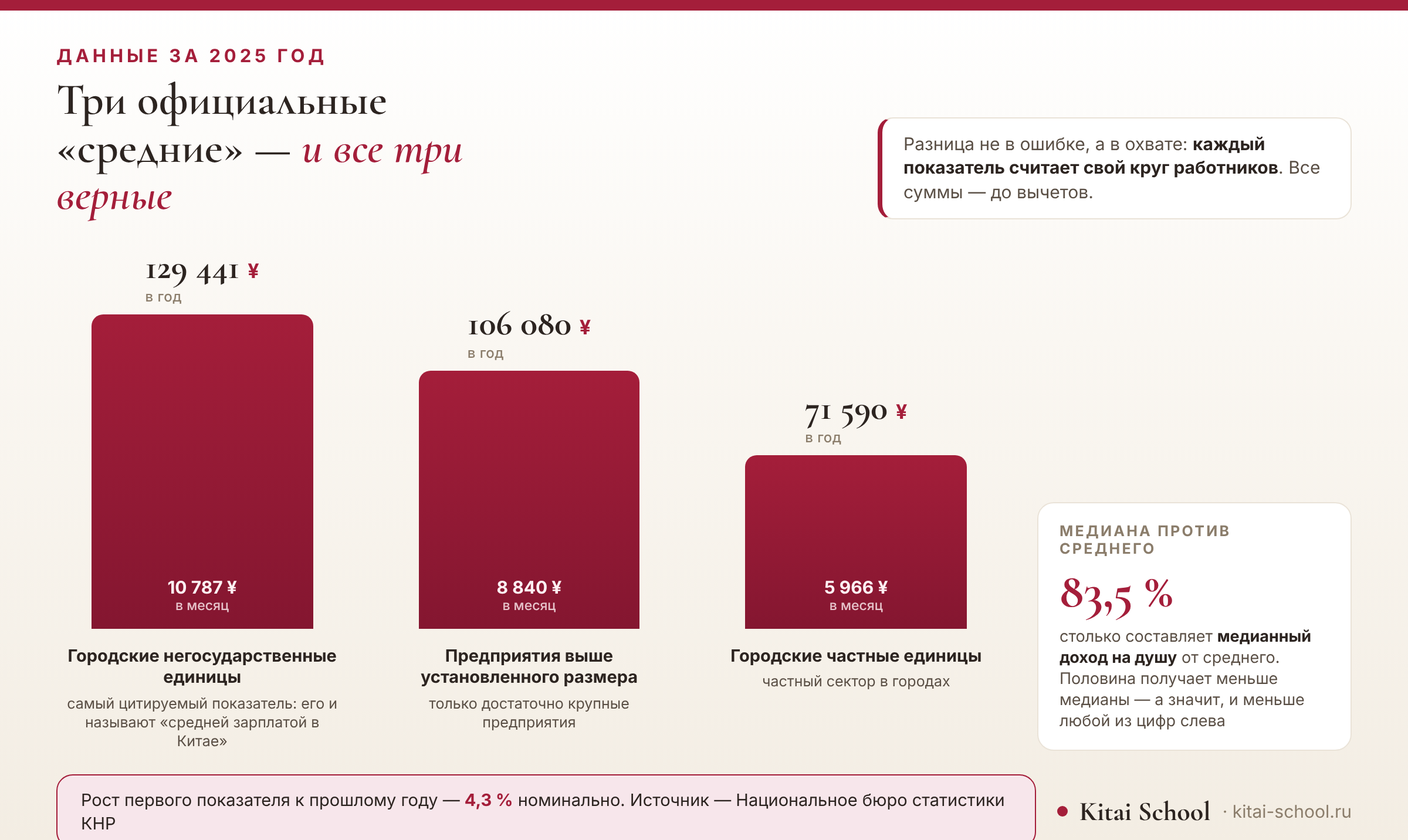
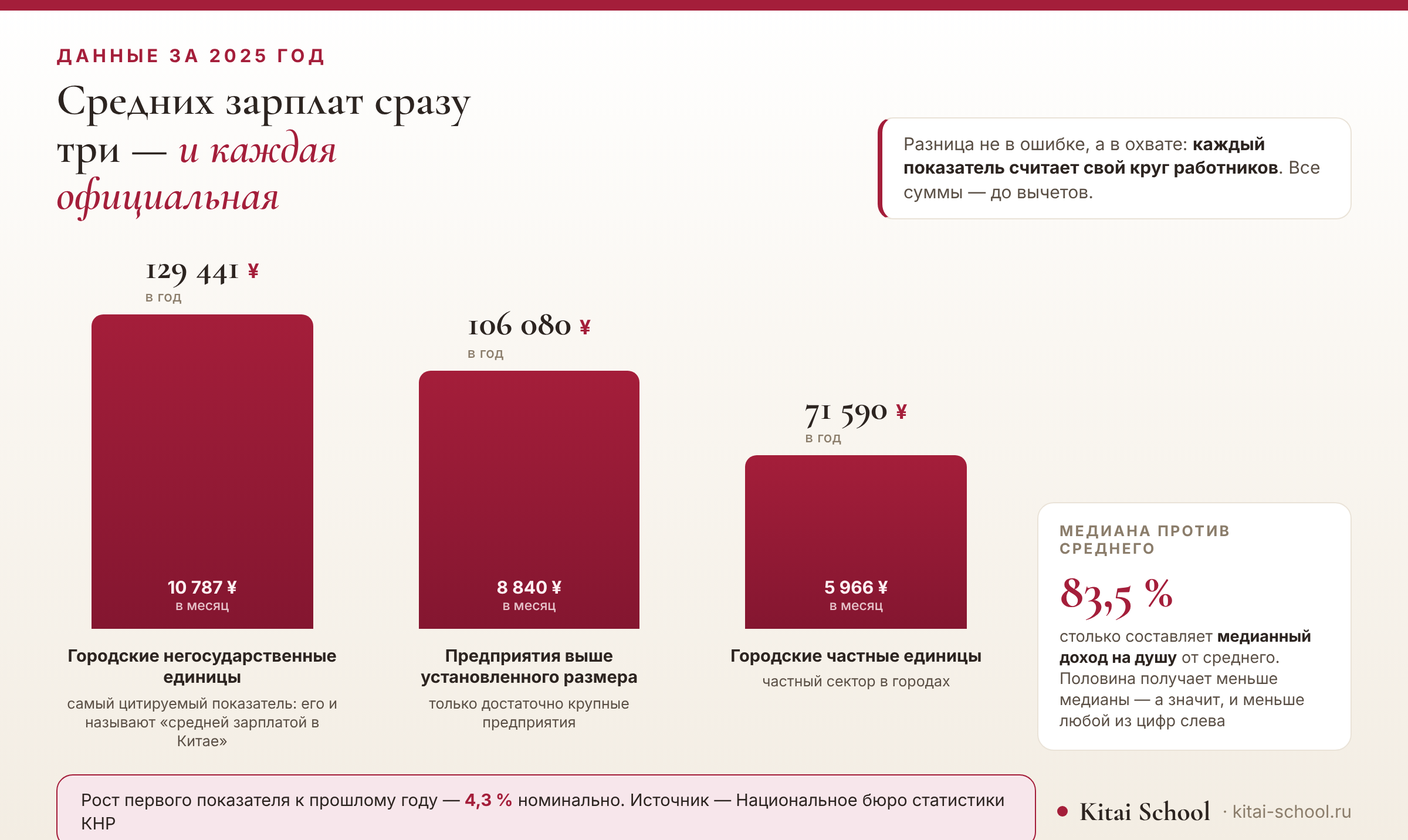
Правка формулировок: «Средняя зарплата в Китае»
Заголовок инфографики «Три официальные „средние" — и все три верные»
читался не по-русски; стало «Средних зарплат сразу три — и каждая
официальная». Та же субстантивация убрана из h2, подписи к картинке,
вводного абзаца, сайдбара и og:description.

Дескрипшен переписан так, чтобы открываться ключевой фразой.

Claude-Session: https://claude.ai/code/session_017dS7Wuw6MNB5fnZSr6hVh2

Changed region(s): [[0.0312, 0.0922, 0.3438, 0.2765]]

diff --git a/content/blog/srednyaya-zarplata-v-kitae.html b/content/blog/srednyaya-zarplata-v-kitae.html
@@ -4,11 +4,11 @@
 <meta charset="utf-8">
 <meta name="viewport" content="width=device-width, initial-scale=1">
 <title>Средняя зарплата в Китае: сколько реально платят и насколько это зависит от города</title>
-<meta name="description" content="Доходы в Китае сильно разнятся: Пекин и Шанхай — это одни цифры, провинция — совсем другие. Разбираем, почему на вопрос «какая в Китае средняя зарплата» есть сразу несколько верных ответов, и попутно даём лексику о работе и деньгах. Информационный обзор по опубликованным данным, без обещаний и прогнозов.">
+<meta name="description" content="Средняя зарплата в Китае — это сразу три официальные цифры, и отличаются они почти вдвое, потому что считают разный круг работников. Разбираем, какая из них о чём, почему Пекин и Шанхай стоят особняком и сколько получает большинство, и попутно даём лексику о работе и деньгах. Информационный обзор по опубликованным данным, без обещаний и прогнозов.">
 <link rel="canonical" href="https://kitai-school.ru/article/srednyaya-zarplata-v-kitae">
 <meta property="og:type" content="article">
 <meta property="og:title" content="Средняя зарплата в Китае: сколько реально платят и насколько это зависит от города">
-<meta property="og:description" content="Три официальные «средние» по стране отличаются почти вдвое — и это не ошибка, а разный охват.">
+<meta property="og:description" content="Три официальные средние зарплаты по стране отличаются почти вдвое — и это не ошибка, а разный охват.">
 <meta property="og:url" content="https://kitai-school.ru/article/srednyaya-zarplata-v-kitae">
 <meta property="og:image" content="assets/zp-hero.png">
 <meta property="og:image:alt" content="Расчётный лист со строками 税前, 底薪, 奖金, 社保, 公积金, 个税 и итогом 税后">
@@ -16,7 +16,7 @@
 <meta property="og:locale" content="ru_RU">
 <meta name="twitter:card" content="summary_large_image">
 <meta name="twitter:title" content="Средняя зарплата в Китае: сколько реально платят и насколько это зависит от города">
-<meta name="twitter:description" content="Три официальные «средние» по стране отличаются почти вдвое — и это не ошибка, а разный охват.">
+<meta name="twitter:description" content="Три официальные средние зарплаты по стране отличаются почти вдвое — и это не ошибка, а разный охват.">
 <meta name="twitter:image" content="assets/zp-hero.png">
 <meta name="robots" content="index, follow, max-image-preview:large, max-snippet:-1">
 
@@ -223,14 +223,14 @@
 
 <figure class="ks-hero"><img src="assets/zp-hero.png" alt="Расчётный лист со строками 税前, 底薪, 奖金, 社保, 公积金, 个税 и итогом 税后" width="1200" height="630"></figure>
 
-<p class="passport">Если вы уже искали ответ, то видели пять разных цифр и ни одного объяснения, почему они не сходятся. Объяснение простое, и с него стоит начать: официальных «средних» в Китае не одна, а несколько, и считают они разные круги работников. Дальше разберём каждую, посмотрим, насколько средняя расходится с тем, что получает большинство, и закончим словами, без которых разговор о зарплате по-китайски не складывается.</p>
+<p class="passport">Если вы уже искали ответ, то видели пять разных цифр и ни одного объяснения, почему они не сходятся. Объяснение простое, и с него стоит начать: официальная средняя зарплата в Китае не одна: показателей несколько, и считают они разные круги работников. Дальше разберём каждую, посмотрим, насколько средняя расходится с тем, что получает большинство, и закончим словами, без которых разговор о зарплате по-китайски не складывается.</p>
 
 <div class="tldr">
   <b>Коротко</b>
   <p><b>За 2025 год: 129 441 юань в год</b> в городских негосударственных единицах, <b>106 080</b> на крупных предприятиях, <b>71 590</b> в городском частном секторе. Все суммы — <b>до вычетов</b>. Медианный доход на душу составляет <b>83,5 % от среднего</b>: половина получает меньше. В Пекине и Шанхае порядок примерно вдвое выше общенационального.</p>
 </div>
 
-<h2>Короткий ответ: <span class="italic">сразу три «средние»</span></h2>
+<h2>Короткий ответ: <span class="italic">сразу три средние зарплаты</span></h2>
 
 <p>Начну с цифр, а объяснение — сразу под таблицей.</p>
 
@@ -276,7 +276,7 @@
 
 <p>Это главное, что стоит понять про любую среднюю зарплату — хоть китайскую, хоть какую.</p>
 
-<figure class="ks-fig"><img src="assets/zp-info.png" alt="Три столбца трёх официальных средних зарплат в Китае за 2025 год: 129 441, 106 080 и 71 590 юаней в год" width="1200" height="716"><figcaption>Три официальные «средние» за 2025 год и то, как к ним относится медиана.</figcaption></figure>
+<figure class="ks-fig"><img src="assets/zp-info.png" alt="Три столбца трёх официальных средних зарплат в Китае за 2025 год: 129 441, 106 080 и 71 590 юаней в год" width="1200" height="716"><figcaption>Три официальные средние зарплаты за 2025 год и то, как к ним относится медиана.</figcaption></figure>
 
 <p><b>Медианный располагаемый доход на душу населения составляет 83,5 % от среднего.</b> Медиана — это середина: половина получает больше, половина меньше. И она заметно ниже средней.</p>
 
@@ -438,7 +438,7 @@
     <a class="side-link" href="https://kitai-school.ru/kitayskiy-dlya-detey" target="_blank" rel="noopener"><svg viewBox="0 0 24 24" fill="none" stroke="currentColor" stroke-width="1.8" stroke-linecap="round" stroke-linejoin="round"><circle cx="12" cy="12" r="9"/><path d="M9 10h.01M15 10h.01M8.5 15a4 4 0 0 0 7 0"/></svg>Китайский детям</a>
     <a class="side-link" href="https://kitai-school.ru/ks-indiv" target="_blank" rel="noopener"><svg viewBox="0 0 24 24" fill="none" stroke="currentColor" stroke-width="1.8" stroke-linecap="round" stroke-linejoin="round"><circle cx="12" cy="8" r="4"/><path d="M4 21c0-4 3.5-6 8-6s8 2 8 6"/></svg>Индивидуально</a>
     <a class="side-link" href="https://kitai-school.ru/ks-university" target="_blank" rel="noopener"><svg viewBox="0 0 24 24" fill="none" stroke="currentColor" stroke-width="1.8" stroke-linecap="round" stroke-linejoin="round"><path d="M22 10L12 5 2 10l10 5 10-5z"/><path d="M6 12v5c0 1 2.7 2.5 6 2.5s6-1.5 6-2.5v-5"/></svg>Учёба в Китае</a>
-    <p class="side-note">Официальных «средних» в Китае сразу три, и отличаются они почти вдвое — потому что считают разный круг работников</p>
+    <p class="side-note">Официальных средних зарплат в Китае сразу три, и отличаются они почти вдвое — потому что считают разный круг работников</p>
     <a class="side-btn" href="#popup:zayavka">Пробный урок →</a>
   </div>
 </aside>

diff --git a/content/blog/srednyaya-zarplata-v-kitae.TILDA.html b/content/blog/srednyaya-zarplata-v-kitae.TILDA.html
@@ -197,14 +197,14 @@
 
 <figure class="ks-hero"><img src="assets/zp-hero.png" alt="Расчётный лист со строками 税前, 底薪, 奖金, 社保, 公积金, 个税 и итогом 税后" width="1200" height="630"></figure>
 
-<p class="passport">Если вы уже искали ответ, то видели пять разных цифр и ни одного объяснения, почему они не сходятся. Объяснение простое, и с него стоит начать: официальных «средних» в Китае не одна, а несколько, и считают они разные круги работников. Дальше разберём каждую, посмотрим, насколько средняя расходится с тем, что получает большинство, и закончим словами, без которых разговор о зарплате по-китайски не складывается.</p>
+<p class="passport">Если вы уже искали ответ, то видели пять разных цифр и ни одного объяснения, почему они не сходятся. Объяснение простое, и с него стоит начать: официальная средняя зарплата в Китае не одна: показателей несколько, и считают они разные круги работников. Дальше разберём каждую, посмотрим, насколько средняя расходится с тем, что получает большинство, и закончим словами, без которых разговор о зарплате по-китайски не складывается.</p>
 
 <div class="tldr">
   <b>Коротко</b>
   <p><b>За 2025 год: 129 441 юань в год</b> в городских негосударственных единицах, <b>106 080</b> на крупных предприятиях, <b>71 590</b> в городском частном секторе. Все суммы — <b>до вычетов</b>. Медианный доход на душу составляет <b>83,5 % от среднего</b>: половина получает меньше. В Пекине и Шанхае порядок примерно вдвое выше общенационального.</p>
 </div>
 
-<h2>Короткий ответ: <span class="italic">сразу три «средние»</span></h2>
+<h2>Короткий ответ: <span class="italic">сразу три средние зарплаты</span></h2>
 
 <p>Начну с цифр, а объяснение — сразу под таблицей.</p>
 
@@ -250,7 +250,7 @@
 
 <p>Это главное, что стоит понять про любую среднюю зарплату — хоть китайскую, хоть какую.</p>
 
-<figure class="ks-fig"><img src="assets/zp-info.png" alt="Три столбца трёх официальных средних зарплат в Китае за 2025 год: 129 441, 106 080 и 71 590 юаней в год" width="1200" height="716"><figcaption>Три официальные «средние» за 2025 год и то, как к ним относится медиана.</figcaption></figure>
+<figure class="ks-fig"><img src="assets/zp-info.png" alt="Три столбца трёх официальных средних зарплат в Китае за 2025 год: 129 441, 106 080 и 71 590 юаней в год" width="1200" height="716"><figcaption>Три официальные средние зарплаты за 2025 год и то, как к ним относится медиана.</figcaption></figure>
 
 <p><b>Медианный располагаемый доход на душу населения составляет 83,5 % от среднего.</b> Медиана — это середина: половина получает больше, половина меньше. И она заметно ниже средней.</p>
 
@@ -412,7 +412,7 @@
     <a class="side-link" href="https://kitai-school.ru/kitayskiy-dlya-detey" target="_blank" rel="noopener"><svg viewBox="0 0 24 24" fill="none" stroke="currentColor" stroke-width="1.8" stroke-linecap="round" stroke-linejoin="round"><circle cx="12" cy="12" r="9"/><path d="M9 10h.01M15 10h.01M8.5 15a4 4 0 0 0 7 0"/></svg>Китайский детям</a>
     <a class="side-link" href="https://kitai-school.ru/ks-indiv" target="_blank" rel="noopener"><svg viewBox="0 0 24 24" fill="none" stroke="currentColor" stroke-width="1.8" stroke-linecap="round" stroke-linejoin="round"><circle cx="12" cy="8" r="4"/><path d="M4 21c0-4 3.5-6 8-6s8 2 8 6"/></svg>Индивидуально</a>
     <a class="side-link" href="https://kitai-school.ru/ks-university" target="_blank" rel="noopener"><svg viewBox="0 0 24 24" fill="none" stroke="currentColor" stroke-width="1.8" stroke-linecap="round" stroke-linejoin="round"><path d="M22 10L12 5 2 10l10 5 10-5z"/><path d="M6 12v5c0 1 2.7 2.5 6 2.5s6-1.5 6-2.5v-5"/></svg>Учёба в Китае</a>
-    <p class="side-note">Официальных «средних» в Китае сразу три, и отличаются они почти вдвое — потому что считают разный круг работников</p>
+    <p class="side-note">Официальных средних зарплат в Китае сразу три, и отличаются они почти вдвое — потому что считают разный круг работников</p>
     <a class="side-btn" href="#popup:zayavka">Пробный урок →</a>
   </div>
 </aside>

diff --git a/content/build-zp.py b/content/build-zp.py
@@ -20,7 +20,7 @@ assert css.count("#ks-art .han{") == 1
 
 SIDE = re.search(r'<aside id="ks-side">.*?</aside>', src, re.S).group(0)
 m = re.search(r'<p class="side-note">.*?</p>', SIDE, re.S)
-SIDE = SIDE.replace(m.group(0), '<p class="side-note">Официальных «средних» в Китае сразу три, '
+SIDE = SIDE.replace(m.group(0), '<p class="side-note">Официальных средних зарплат в Китае сразу три, '
                                 'и отличаются они почти вдвое — потому что считают разный круг '
                                 'работников</p>')
 
@@ -30,12 +30,13 @@ def L(sl, t):
 
 
 TITLE = "Средняя зарплата в Китае: сколько реально платят и насколько это зависит от города"
-DESC = ("Доходы в Китае сильно разнятся: Пекин и Шанхай — это одни цифры, провинция — совсем "
-        "другие. Разбираем, почему на вопрос «какая в Китае средняя зарплата» есть сразу "
-        "несколько верных ответов, и попутно даём лексику о работе и деньгах. Информационный "
-        "обзор по опубликованным данным, без обещаний и прогнозов.")
-OGD = ("Три официальные «средние» по стране отличаются почти вдвое — и это не ошибка, "
-       "а разный охват.")
+DESC = ("Средняя зарплата в Китае — это сразу три официальные цифры, и отличаются они "
+        "почти вдвое, потому что считают разный круг работников. Разбираем, какая из них "
+        "о чём, почему Пекин и Шанхай стоят особняком и сколько получает большинство, и "
+        "попутно даём лексику о работе и деньгах. Информационный обзор по опубликованным "
+        "данным, без обещаний и прогнозов.")
+OGD = ("Три официальные средние зарплаты по стране отличаются почти вдвое — и это не "
+       "ошибка, а разный охват.")
 
 # ------------------------------------------------- данные: три официальные «средние», 2025
 # (годовая сумма в юанях, имя показателя, охват)
@@ -245,14 +246,14 @@ BODY = """<body>
 
 <figure class="ks-hero"><img src="HERO_SRC" alt="HERO_ALT" width="1200" height="630"></figure>
 
-<p class="passport">Если вы уже искали ответ, то видели пять разных цифр и ни одного объяснения, почему они не сходятся. Объяснение простое, и с него стоит начать: официальных «средних» в Китае не одна, а несколько, и считают они разные круги работников. Дальше разберём каждую, посмотрим, насколько средняя расходится с тем, что получает большинство, и закончим словами, без которых разговор о зарплате по-китайски не складывается.</p>
+<p class="passport">Если вы уже искали ответ, то видели пять разных цифр и ни одного объяснения, почему они не сходятся. Объяснение простое, и с него стоит начать: официальная средняя зарплата в Китае не одна: показателей несколько, и считают они разные круги работников. Дальше разберём каждую, посмотрим, насколько средняя расходится с тем, что получает большинство, и закончим словами, без которых разговор о зарплате по-китайски не складывается.</p>
 
 <div class="tldr">
   <b>Коротко</b>
   <p><b>За 2025 год: 129 441 юань в год</b> в городских негосударственных единицах, <b>106 080</b> на крупных предприятиях, <b>71 590</b> в городском частном секторе. Все суммы — <b>до вычетов</b>. Медианный доход на душу составляет <b>83,5 % от среднего</b>: половина получает меньше. В Пекине и Шанхае порядок примерно вдвое выше общенационального.</p>
 </div>
 
-<h2>Короткий ответ: <span class="italic">сразу три «средние»</span></h2>
+<h2>Короткий ответ: <span class="italic">сразу три средние зарплаты</span></h2>
 
 <p>Начну с цифр, а объяснение — сразу под таблицей.</p>
 
@@ -296,7 +297,7 @@ MEAN_ROWS
 
 <p>Это главное, что стоит понять про любую среднюю зарплату — хоть китайскую, хоть какую.</p>
 
-<figure class="ks-fig"><img src="FIG_SRC" alt="FIG_ALT" width="1200" height="716"><figcaption>Три официальные «средние» за 2025 год и то, как к ним относится медиана.</figcaption></figure>
+<figure class="ks-fig"><img src="FIG_SRC" alt="FIG_ALT" width="1200" height="716"><figcaption>Три официальные средние зарплаты за 2025 год и то, как к ним относится медиана.</figcaption></figure>
 
 <p><b>Медианный располагаемый доход на душу населения составляет MEDIAN_P % от среднего.</b> Медиана — это середина: половина получает больше, половина меньше. И она заметно ниже средней.</p>
 

diff --git a/content/img-zp.py b/content/img-zp.py
@@ -183,7 +183,7 @@ h2 i{font-style:italic;color:var(--brick)}
   <div class="top">
     <div>
       <div class="eyebrow">Данные за 2025 год</div>
-      <h2>Три официальные «средние» — <i>и все три верные</i></h2>
+      <h2>Средних зарплат сразу три — <i>и каждая официальная</i></h2>
     </div>
     <div class="hint">Разница не в ошибке, а в охвате: <b>каждый показатель считает свой круг работников</b>. Все суммы — до вычетов.</div>
   </div>
